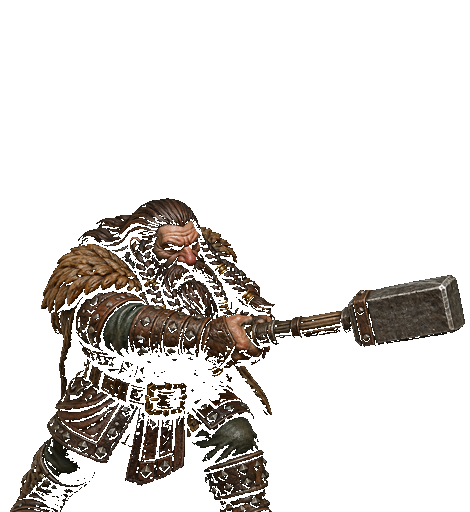
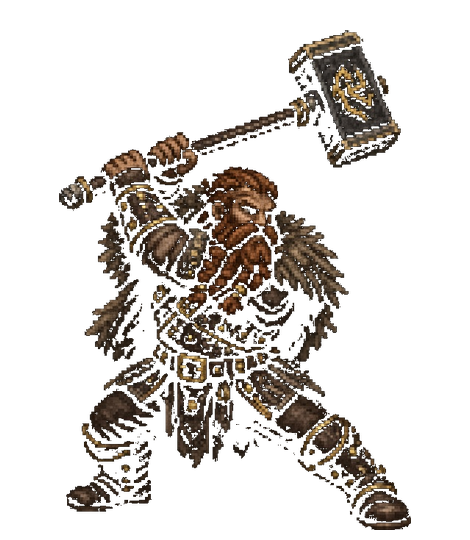
Restore main's maul windup sheet.
The branch was still shipping the older 470×512 attack with no raised maul. Main's 470×540 windup is the same brown-leather Macar, and the crown-to-boot plant already matches idle. ASSET_VER is 123.

diff --git a/index.html b/index.html
@@ -436,7 +436,7 @@ const FONT_QUOTE='"Cormorant Garamond",Palatino,Georgia,serif';
 
 /* ---------------------------- painted sprites (Baldur's Gate isometric) ---------------------------- */
 const SPR={};
-const ASSET_VER='122';
+const ASSET_VER='123';
 let SPLASH_STATE='loading';
 function assetUrl(src){
   const u=src+(src.indexOf('?')>=0?'&':'?')+'v='+ASSET_VER;
@@ -1551,14 +1551,10 @@ function solidDwarfSprite(e,img){
   }
   return blitLivingMacar(img)||img;
 }
-/* CAP stays under 255 so a west flip (punch=false) cannot go solid.
-   WHITE lifts gray dust toward white. COOL then pulls that white cool
-   (spectral, not warm parchment). SHADE puts the original luminance
-   folds back so the kit does not flatten to paper. Alpha rises only
-   enough that the cave floor cannot stain the spirit yellow.
-   EDGE then draws a thin cool line on the silhouette and on the ridge
-   where a blurred luminance band changes — nose, beard, helm, plate,
-   blade — so the white fill still shows a figure. */
+/* CAP stays under 255 so a west flip cannot go solid. Living-color
+   back and attack mix toward ice cyan; Nick idle and front walk skip
+   the lift. Shade keeps the luminance folds. Feature ink draws the
+   silhouette so the cyan fill still shows a figure. */
 const GHOST_DRAW_ALPHA=1;
 const GHOST_ALPHA_LO=40;
 const GHOST_ALPHA_CAP=224;
@@ -1929,9 +1925,9 @@ function matchingPartyAtkReady(key, idleKey){
   const idle=(SPR[idleKey]&&SPR[idleKey].width)?SPR[idleKey]:null;
   return partyFrameFitOk(img, idle);
 }
-/* Restored original Macar motion is 470×512 (walk/atk) and 366–527 wide
-   compass/contact. Idle stays 1100×920. samePaintedFamily would plant idle
-   and hide the walk. These keys are the same dwarf; fit still rejects slivers. */
+/* Restored walks are 470×512. Windup is main's 470×540 maul sheet.
+   Contact is 893×540. Idle stays 1100×920. samePaintedFamily would plant
+   idle and hide the walk. These keys are the same dwarf; fit still rejects slivers. */
 function restoredMacarMotionKey(key){
   return key==='macar_w1'||key==='macar_w2'||key==='macar_atk'||key==='macar_atk_contact'
     ||key==='macar_e_w1'||key==='macar_e_w2'||key==='macar_se_w1'||key==='macar_se_w2'

diff --git a/src/combat/LivingMacarQA.test.js b/src/combat/LivingMacarQA.test.js
@@ -145,8 +145,8 @@ BLIT_KEYS.forEach(k=>{
 });
 const windupHist=pngAlphaHist(path.join(root,'assets/creatures', KEY_FILE.macar_atk));
 const contactHist=pngAlphaHist(path.join(root,'assets/creatures', KEY_FILE.macar_atk_contact));
-assert(windupHist.ok && windupHist.w===470 && windupHist.h===512,
-  'restored maul windup canvas is 470×512');
+assert(windupHist.ok && windupHist.w===470 && windupHist.h===540,
+  'maul windup canvas is main\'s 470×540 sheet');
 assert(contactHist.ok && contactHist.w===893 && contactHist.h===540,
   'maul contact stays main\'s 893×540 sheet');
 assert(/punchLivingMacarCanvas\(out\)/.test(extractFn('blitLivingMacar'))
@@ -660,8 +660,8 @@ const atkBody=sheetStature('dwarf_macar_atk.png');
 const hitBody=sheetStature('dwarf_macar_atk_contact.png');
 assert(idleBody>0.94 && idleBody<0.995,
   'idle crown-to-boots fills the sheet (frac '+idleBody.toFixed(3)+')');
-assert(atkBody>0.55 && atkBody<0.68,
-  'restored windup keeps the maul above the helm (frac '+atkBody.toFixed(3)+')');
+assert(atkBody>0.68 && atkBody<0.76,
+  'main windup keeps the maul above the helm (frac '+atkBody.toFixed(3)+')');
 assert(hitBody>0.84 && hitBody<0.93,
   'main contact crown is the helm (frac '+hitBody.toFixed(3)+')');
 assert(hitBody>atkBody+0.08,
@@ -684,7 +684,7 @@ assert(Math.abs(atkFig-idleFig)/idleFig<0.02 && Math.abs(hitFig-idleFig)/idleFig
   +idleFig.toFixed(3)+' wind '+atkFig.toFixed(3)+' contact '+hitFig.toFixed(3)+')');
 const windScale=blitHOf('macar_atk')/blitHOf('macar');
 const hitScale=blitHOf('macar_atk_contact')/blitHOf('macar');
-assert(windScale>1.45 && windScale<1.70,
+assert(windScale>1.28 && windScale<1.45,
   'windup dest H grows for the shorter helm-to-boot body (scale '+windScale.toFixed(3)+')');
 assert(hitScale>1.02 && hitScale<1.22,
   'contact dest H matches the helm and does not overshoot idle (scale '+hitScale.toFixed(3)+')');

diff --git a/src/systems/Interaction.test.js b/src/systems/Interaction.test.js
@@ -37,7 +37,7 @@ assert(SR.SHIPPED.indexOf('Interaction')>=0 && SR.SHIPPED.indexOf('Discovery')>=
 assert(/src="src\/systems\/Interaction\.js"/.test(html),
   'Interaction is a classic sync tag');
 assert(!/type\s*=\s*["']module["']/.test(html), 'index.html still has no type=module');
-assert(/ASSET_VER='122'/.test(html), 'ASSET_VER is 117');
+assert(/ASSET_VER='123'/.test(html), 'ASSET_VER is 117');
 assert(/function tryFindSecret\(p, mode\)\{/.test(html) &&
   /key==='search'/.test(html) && /key==='secret'/.test(html),
   'dual SEARCH (F herbs / T doors) is unchanged');
@@ -388,7 +388,7 @@ assert(/if\(typeof Interaction!=='undefined' && Interaction\.isProtectedCell/.te
 assert(/breakRock\(L,i,j\)/.test(html) && /function breakRock\(L,i,j\)\{/.test(html),
   'host breakRock remains the destruction path');
 assert(/function openSecret\(sec\)\{/.test(html), 'host openSecret remains the secret path');
-assert(/ASSET_VER='122'/.test(html) && !/ASSET_VER='115'/.test(html), 'ASSET_VER is 117 — remat Talpor idle bw=344 (Nick CALL)');
+assert(/ASSET_VER='123'/.test(html) && !/ASSET_VER='115'/.test(html), 'ASSET_VER is 117 — remat Talpor idle bw=344 (Nick CALL)');
 
 if(failed){ console.error('\n'+failed+' failed'); process.exit(1); }
 console.log('\ninteraction checks passed');

diff --git a/src/combat/MacarWeaponLock.test.js b/src/combat/MacarWeaponLock.test.js
@@ -176,7 +176,7 @@ SPR.macar._stature=idleBody;
 SPR.macar_atk._stature=windBody;
 SPR.macar_atk_contact._stature=hitBody;
 assert(idleBody>0.94 && idleBody<0.995
-  && windBody>0.55 && windBody<0.68
+  && windBody>0.68 && windBody<0.76
   && hitBody>0.84 && hitBody<0.93
   && hitBody>windBody+0.08,
   'idle fills the sheet, windup stops at the helm, contact includes the helm (idle '
@@ -202,7 +202,7 @@ assert(Math.abs(w1Blith-idleBlith)/idleBlith<0.02
 assert(Math.abs(windFig-idleFig)/idleFig<0.02 && Math.abs(hitFig-idleFig)/idleFig<0.02,
   'crown-to-boots figure height matches idle vs windup vs contact (idle '
   +idleFig.toFixed(3)+' wind '+windFig.toFixed(3)+' hit '+hitFig.toFixed(3)+')');
-assert(macarB.h>windB.h && windBlith>idleBlith*1.45 && windBlith<idleBlith*1.70,
+assert(macarB.h>windB.h && windBlith>idleBlith*1.28 && windBlith<idleBlith*1.45,
   'windup dest H grows for the shorter helm-to-boot body on the taller freearm canvas (wind '+windBlith.toFixed(3)
   +' idle '+idleBlith.toFixed(3)+')');
 assert(hitBlith>idleBlith*1.02 && hitBlith<idleBlith*1.22,

diff --git a/src/saves/GameSave.test.js b/src/saves/GameSave.test.js
@@ -69,7 +69,7 @@ assert(/Save game/.test(html) && /function writeGameSave\(/.test(html), 'pause c
 }
 assert(/GameSave\.captureWorld/.test(html) && /GameSave\.applyWorld/.test(html), 'play save uses the versioned world schema');
 assert(/remakeSavedEnt/.test(html) && /restoreSavedEid/.test(html), 'load remakes ents and restores numeric EIDs');
-assert(!/ASSET_VER='100'/.test(html) && !/ASSET_VER='101'/.test(html) && !/ASSET_VER='102'/.test(html) && /ASSET_VER='122'/.test(html), 'ASSET_VER is 117');
+assert(!/ASSET_VER='100'/.test(html) && !/ASSET_VER='101'/.test(html) && !/ASSET_VER='102'/.test(html) && /ASSET_VER='123'/.test(html), 'ASSET_VER is 117');
 assert(/G\.scene==='camp'/.test(html) && /drawHint\(g,UIS\)/.test(html), 'camp draws the Saved toast');
 assert(/Continue/.test(html) && /function loadSavedGame\(/.test(html), 'title can continue a save');
 assert(/G\._keepProgress/.test(html) && /G\._forceSeeds/.test(html), 'load keeps campaign and dungeon seeds');

diff --git a/src/ui/Ch1RubbleLoad.test.js b/src/ui/Ch1RubbleLoad.test.js
@@ -45,7 +45,7 @@ assert(!/else if\(okTex\)\{/.test(html),
   'generated TEX diamonds are not a first-frame floor/wall fallback');
 assert(/tile_floor_mine\.png\?v=60/.test(html) && /tile_wall_worked\.png\?v=60/.test(html),
   'mine floor and worked wall are preloaded before first present');
-assert(/ASSET_VER='122'/.test(html), 'asset cache-bust is 117 — remat Talpor idle bw=344 (Nick CALL)');
+assert(/ASSET_VER='123'/.test(html), 'asset cache-bust is 117 — remat Talpor idle bw=344 (Nick CALL)');
 assert(/function scatterBurialRubble\(/.test(html) && /fallen:1/.test(html) && /k:'dust'/.test(html),
   'cave-in entry scatters extra timber, stone, and dust around the burial');
 assert(!/s:0\.55,seed:s\.seed\+40/.test(html) && !/s:0\.48,seed:s\.seed\+51/.test(html),

diff --git a/src/systems/PartyOrders.test.js b/src/systems/PartyOrders.test.js
@@ -278,7 +278,7 @@ assert(rooted.moving===0 && rooted.atk===0 && rooted.x===3 && !rooted.aim,
 
 /* ---- host wiring ---- */
 assert(/src="src\/systems\/PartyOrders\.js"/.test(html), 'index includes PartyOrders.js');
-assert(/ASSET_VER='122'/.test(html) && !/ASSET_VER='115'/.test(html), 'ASSET_VER is 121 — remat Talpor idle bw=344 (Nick CALL)');
+assert(/ASSET_VER='123'/.test(html) && !/ASSET_VER='115'/.test(html), 'ASSET_VER is 121 — remat Talpor idle bw=344 (Nick CALL)');
 /* 2026-09-26: the Hold / Regroup / Focus HUD was removed (mobile clutter).
    The module stays for its logic tests; play switches it off. */
 assert(!/key:'hold'/.test(html) && !/key:'regroup'/.test(html) && !/key:'focus'/.test(html),

diff --git a/src/ui/EquipCompare.test.js b/src/ui/EquipCompare.test.js
@@ -70,7 +70,7 @@ assert(SR.has('EquipCompare') && SR.get('EquipCompare')===EC,
 assert(SR.SHIPPED.indexOf('EquipCompare')>=0, 'EquipCompare is a shipped optional module');
 assert(SR.SHIPPED.indexOf('DerivedStats')>=0, 'DerivedStats is a shipped optional module');
 assert(!/type\s*=\s*["']module["']/.test(html), 'index.html still has no type=module');
-assert(/ASSET_VER='122'/.test(html), 'ASSET_VER is 117');
+assert(/ASSET_VER='123'/.test(html), 'ASSET_VER is 117');
 assert(!/ASSET_VER='100'/.test(html) && !/ASSET_VER='101'/.test(html) && !/ASSET_VER='102'/.test(html), 'ASSET_VER is not leftover 100/101/102');
 assert(/src="src\/combat\/DerivedStats\.js"/.test(html),
   'DerivedStats is a classic sync tag');

diff --git a/src/combat/DwarfAttack.test.js b/src/combat/DwarfAttack.test.js
@@ -45,7 +45,7 @@ function pngSize(p){
 
 assert(fs.existsSync(path.join(root,'dwarf_macar_atk.png')), 'title-law Macar windup is on disk');
 const macarAtk=pngSize(path.join(root,'dwarf_macar_atk.png'));
-assert(macarAtk && macarAtk.w===470 && macarAtk.h===512, 'restored maul windup is 470x512');
+assert(macarAtk && macarAtk.w===470 && macarAtk.h===540, 'maul windup is main\'s 470x540 sheet');
 assert(fs.existsSync(path.join(root,'dwarf_macar_atk_contact.png')), 'maul contact is on disk');
 const macarHit=pngSize(path.join(root,'dwarf_macar_atk_contact.png'));
 assert(macarHit && macarHit.w===893 && macarHit.h===540, 'maul contact is main\'s 893x540 sheet');

diff --git a/src/ui/Ch1StartLoadout.test.js b/src/ui/Ch1StartLoadout.test.js
@@ -53,7 +53,7 @@ assert(/if\(r\.key==='macar'\) ensureMacarStartingGear\(pk\)/.test(html),
   'ensurePacks wears the starting kit on Macar');
 assert(/livingMacarIdleKey/.test(html) && /wieldsShadowCleaver/.test(html),
   'maul idle is the default; Cleaver is an equip swap');
-assert(/ASSET_VER='122'/.test(html),
+assert(/ASSET_VER='123'/.test(html),
   'ASSET_VER is 117 — remat Talpor idle bw=344 (Nick CALL)');
 assert(/Interaction\.installChapterI/.test(html)
   && /if \(L\.n === 1 && i < 14\) return true/.test(fs.readFileSync(path.join(root,'src/systems/Interaction.js'),'utf8')),

diff --git a/src/dungeon/Ch1TeethCrown.test.js b/src/dungeon/Ch1TeethCrown.test.js
@@ -63,7 +63,7 @@ assert(/one thrall at a time/.test(html) && /Once per corpse/.test(html),
   'HOUSE law is one thrall, once per corpse');
 assert(/follow \/ fight nearest foe \/ stay/.test(html),
   'thrall commands are follow, fight nearest foe, stay');
-assert(/ASSET_VER='122'/.test(html) && !/ASSET_VER='115'/.test(html),
+assert(/ASSET_VER='123'/.test(html) && !/ASSET_VER='115'/.test(html),
   'ASSET_VER is 117 — remat Talpor idle bw=344 (Nick CALL)');
 assert(/bone_crown:'assets\/props\/prop_bone_crown\.png'/.test(html),
   'bone_crown is registered to the painted prop');

diff --git a/src/systems/EnemyIntent.test.js b/src/systems/EnemyIntent.test.js
@@ -62,7 +62,7 @@ assert(/function applyEnemyIntent\(/.test(html) && /function intentHost\(/.test(
   'host applies intent through existing steerWalk / atk machinery');
 assert(/EnemyIntent\.decide\(e, dt, intentHost\(\)\)/.test(html),
   'only the foe decision branch consults EnemyIntent');
-assert(/ASSET_VER='122'/.test(html), 'ASSET_VER is 117');
+assert(/ASSET_VER='123'/.test(html), 'ASSET_VER is 117');
 
 const head=html.slice(0, html.indexOf('<script>\n"use strict";'));
 const navI=head.indexOf('src="src/systems/Navigation.js"');
